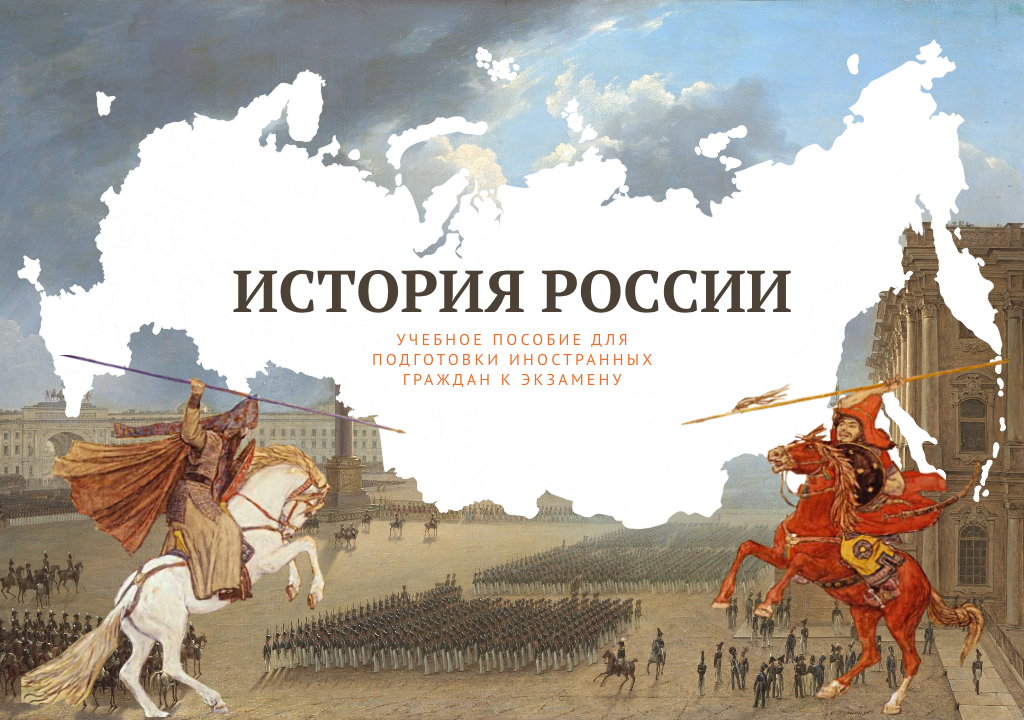
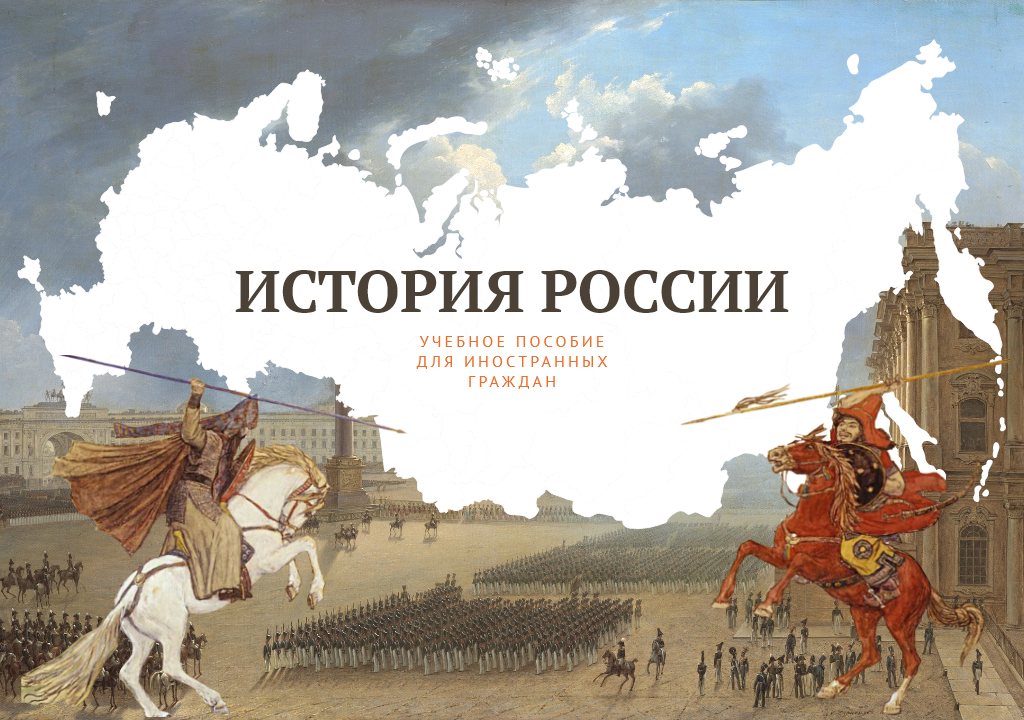
Исправлено название книги, приветствие, введение, сведения

diff --git a/epub/EPUB/xhtml/raw/intro.html b/epub/EPUB/xhtml/raw/intro.html
@@ -7,9 +7,9 @@
     <meta http-equiv="X-UA-Compatible" content="ie=edge">
     <title>Document</title>
 
-    <link rel="stylesheet" type="text/css" href="../../css/base.css" />
-    <link rel="stylesheet" type="text/css" href="../../css/kotobeeInteractive.css" />
-    <link rel="stylesheet" type="text/css" href="../../css/global.css" />
+    <link rel="stylesheet" type="text/css" href="../../css/base.css"/>
+    <link rel="stylesheet" type="text/css" href="../../css/kotobeeInteractive.css"/>
+    <link rel="stylesheet" type="text/css" href="../../css/global.css"/>
 
     <script type="text/javascript" src="../../js/kotobeeInteractive.js"></script>
     <script type="text/javascript" src="../../js/global.js"></script>
@@ -25,58 +25,36 @@
             <div class="col-12 col-offset-0 col-xl-10 offset-xl-1">
                 <div class="ru-card">
                     <div class="text-block">
-                        <p>Пособие по истории России является частью учебно-методического
-                            комплекса, предназначенного для подготовки иностранных граждан к
-                            интеграционному экзамену по русскому языку, истории России и основам
-                            законодательства РФ, который вводится с 1 января 2015 года в
-                            соответствии с Федеральным законом № 74-ФЗ от 20 апреля 2014 г. «О
-                            внесении изменений в Федеральный закон “О правовом положении иностранных
-                            граждан в Российской Федерации”». Теперь при обращении за получением
-                            разрешения на работу либо патент, на временное проживание и вида на
-                            жительство на территории России иностранный гражданин обязан представить
-                            сертификат о владении русским языком, знании истории России и основ
-                            законодательства Российской Федерации.</p>
-                        <p>Пособие ориентировано на то, чтобы люди, приехавшие в Россию из разных
-                            стран и являющиеся носителями различных языков, культур и религий,
-                            смогли получить знания, необходимые для адекватного понимания
-                            окружающей их социокультурной среды, для преодоления этнической
-                            изоляции и равноправного общения как с местными жителями, так и друг с
-                            другом.</p>
-                        <p>В пособии освещены важнейшие вехи истории России с древнейших времен до
-                            наших дней, что способствует формированию у иностранных граждан
-                            целостного представления об основных этапах исторического развития
-                            народов России, особенностях взаимоотношений русского народа с народами,
-                            входившими в состав Российской империи и СССР, а также с народами
-                            современной России.</p>
-                        <p>Представленный в пособии материал знакомит с духовной и материальной
-                            жизнью, традициями и культурой, трудовыми и военными подвигами
-                            народов России, что в итоге призвано сформировать объективное
-                            представление о вкладе России в развитие мировой истории и
-                            культуры.</p>
-                        <p>Изучение курса истории поможет иностранным гражданам лучше
-                            ориентироваться в новых условиях, в том числе в речевых ситуациях,
-                            связанных с официально-деловой, профессиональной, социокультурной и
-                            бытовой сферами общения. Освоение исторического материала позволит
-                            обогатить словарный запас по русскому языку специальными историческими и
-                            культурологическими терминами и понятиями.</p>
-                        <p>Пособие рассчитано как на аудиторную подготовку, так и на
-                            самостоятельную работу.</p>
-                        <p>Пособие построено по хронологическому принципу. Оно состоит из четырех
-                            разделов, включающих основные темы, в которых представлены только самые
-                            важные исторические факты, события и понятия. Их рекомендуется изучить
-                            в процессе ознакомительных занятий либо самостоятельно. Материал
-                            излагается в сжатой форме, доступным языком. Каждую тему предваряет
-                            перечень незнакомых терминов и понятий, которые рекомендуется
-                            предварительно посмотреть в словаре (например, в Толковом словаре С.И.
-                            Ожегова, любом словаре иностранных слов, любого года издания).</p>
-                        <p>Изучение истории России дает возможность иностранным гражданам
-                            ознакомиться с основными событиями прошлого, традициями, культурными и
-                            трудовыми достижениями русского народа. В пособии формирование и
-                            развитие российского социума представлено как сложный исторический
-                            процесс, протекавший на многонациональной и поликонфессиональной основе,
-                            в рамках которого преобладали толерантность и веротерпимость, а также
-                            взаимодействие между народами, в разное время входившими в состав
-                            Российского государства.</p>
+                        <p>Пособие по истории России предназначено для изучения иностранными гражданами истории России и
+                            ориентировано на то, чтобы люди, приехавшие в Российскую Федерацию из разных стран и
+                            являющиеся носителями различных языков, культур и религий, смогли получить знания,
+                            необходимые для адекватного понимания окружающей их социокультурной среды.</p>
+                        <p>В пособии освещены важнейшие вехи истории России с древнейших времен до наших дней, что
+                            способствует формированию у иностранных граждан целостного представления об основных этапах
+                            исторического развития народов России, особенностях взаимоотношений русского народа с
+                            народами, входившими в состав Российской империи и СССР, а также с народами современной
+                            России.</p>
+                        <p>Представленный в пособии материал знакомит с духовной и материальной жизнью, традициями и
+                            культурой, трудовыми и военными подвигами народов России, что в итоге призвано сформировать
+                            объективное представление о вкладе России в развитие мировой истории и культуры.</p>
+                        <p>Освоение исторического материала позволит также иностранному гражданину обогатить словарный
+                            запас по русскому языку специальными историческими и культурологическими терминами и
+                            понятиями.</p>
+                        <p>Пособие рассчитано как на аудиторную подготовку, так и на самостоятельную работу.</p>
+                        <p>Пособие построено по хронологическому принципу. Оно состоит из четырех разделов, включающих
+                            основные темы, в которых представлены только самые важные исторические факты, события и
+                            понятия. Их рекомендуется изучить в процессе ознакомительных занятий либо самостоятельно.
+                            Материал излагается в сжатой форме, доступным языком. Каждую тему предваряет перечень
+                            незнакомых терминов и понятий, которые рекомендуется предварительно посмотреть в словаре
+                            (например, в Толковом словаре С.И. Ожегова, любом словаре иностранных слов, любого года
+                            издания).</p>
+                        <p>Изучение истории России дает возможность иностранным гражданам ознакомиться с основными
+                            событиями прошлого, традициями, культурными и трудовыми достижениями народов, которые
+                            проживают на территории страны. В пособии формирование и развитие российского социума
+                            представлено как сложный исторический процесс, протекавший на многонациональной и
+                            поликонфессиональной основе, в рамках которого преобладали толерантность и веротерпимость, а
+                            также взаимодействие между народами, в разное время входившими в состав Российского
+                            государства.</p>
                     </div>
                 </div>
             </div>

diff --git a/epub/EPUB/xhtml/raw/book-info.html b/epub/EPUB/xhtml/raw/book-info.html
@@ -21,30 +21,17 @@
             <div class="col-12 col-md-10 col-lg-8">
                 <div class="row">
                     <div class="col-12 book-info">
-                        <div class="ru-udc"><span class="emphasis">УДК</span>:
-                            94(47):372.881.161.1:342.4(470)
-                            (07)
-                        </div>
-                        <div class="ru-bbc"><span class="emphasis">ББК</span>:
-                            63.3(2)+81.2Рус-96+67.400
-                        </div>
-                        <div class="ru-approved"><span class="emphasis">Утверждено</span>: <span
-                                class="it">РИС Ученого совета
-                            Российского университета дружбы народов</span>
+                        <div class="ru-output">
+                            <span class="emphasis">История России</span> : учеб. пособие для
+                            иностранных граждан / В.М.&nbsp;Козьменко, А.В.&nbsp;Должикова, Р.А.&nbsp;Арсланов, М.Н.&nbsp;Мосейкина,
+                            Н.М.&nbsp;Румянцева, И.С.&nbsp;Гусева. – Москва : РУДН, 2020.
                         </div>
                         <div class="ru-card ru-reviewers">
                             <div class="text-block">
                                 <h6>Рецензенты</h6>
                                 <p class="ru-reviewer">
                                     <span class="emphasis">В.В. Зверев</span>, доктор исторических
-                                    наук, профессор кафедры истории российской государственности
-                                    Российской академии народного хозяйства и государственной службы
-                                    при Президенте РФ
-                                </p>
-                                <p class="ru-reviewer">
-                                    <span class="emphasis">С.И. Ельникова</span>, кандидат
-                                    педагогических наук, доцент, начальник отдела сопровождения ФЦП
-                                    и образовательных проектов Россотрудничества
+                                    наук, ведущий научный сотрудник Института российской истории РАН
                                 </p>
                                 <p class="ru-reviewer">
                                     <span class="emphasis">З.С. Бочарова</span>, доктор исторических
@@ -58,57 +45,37 @@
                                 </div>
                             </div>
                         </div>
-                        <div class="ru-output">
-                            <span class="emphasis">История России</span> : учеб. пособие для
-                            подготовки
-                            иностранных граждан к экзамену / В.М. Козьменко, А.В. Должикова, Р.А. Арсланов, М.Н. Мосейкина,
-                            Н.М. Румянцева, И.С. Гусева. – Москва : РУДН, 2014. – 172 с. : ил.
-                        </div>
-                        <div class="ru-isbn"><span class="emphasis">ISBN</span>: 978-5-209-05790
-                            -1
-                        </div>
                         <div class="ru-description">
                             <p>
-                            Данное пособие предназначено для иностранных граждан, изучающих историю
-                            России. Пособие разработано коллективом авторов в соответствии с
-                            задачами современной миграционной политики Российской Федерации,
-                            предусматривающей в качестве важного элемента создание условий для
-                            адаптации и интеграции иностранных граждан в новую социокультурную и
-                            языковую среду, формирование у них навыков межкультурного общения.</p>
+                                Данное пособие предназначено для иностранных граждан, изучающих историю России. Пособие
+                                разработано коллективом авторов в соответствии с задачами современной миграционной
+                                политики Российской Федерации, предусматривающей в качестве важного элемента создание
+                                условий для адаптации и интеграции иностранных граждан в новую социокультурную и
+                                языковую среду, формирование у них навыков межкультурного общения.
+                            </p>
                             <p>
-                            Пособие включает обзор тем по истории России, перечень основных
-                            исторических дат, событий, понятий, имен, а также вопросы для
-                            закрепления пройденного материала и образцы тестовых заданий для
-                            самопроверки.
+                                Пособие включает
+                                обзор тем по истории России, перечень основных исторических дат, событий, понятий, имен,
+                                а также вопросы для закрепления пройденного материала и образцы тестовых заданий для
+                                самопроверки.
                             </p>
                         </div>
-                        <div class="ru-copyrights">
-                            <div class="ru-copyright">© Козьменко В.М., Должикова А.В., Арсланов Р.А.,
-                                Мосейкина М.Н., Румянцева Н.М., Гусева И.С., 2014</div>
-                            <div class="ru-copyright">© Российский университет дружбы народов, Издательство, 2014</div>
-                        </div>
-                    </div>
-                    <div class="col-12 book-info">
-                        <h6>Информация об электронном издании</h6>
-                        <div
-                                class="ru-last-updated"><span class="emphasis">Дата
-                            последнего обновления</span>: 09.01.2021</div>
-                        <div class="ru-isbn" style="background-color: yellow;"><span
-                                class="emphasis">ISBN</span>: isbn
-                            цифровой
-                            книги если будет
-                        </div>
-                        <div class="ru-creators">
+                        <div class="ru-creators" style="margin-top: 1.5em;">
+                            <p>
                             Технический редактор: Соловьев К.В.<br/>
                             Компьютерная верстка: Жуков В.В., Нохуров М.<br/>
-                            Дизайн: Манолова О.
+                            Дизайн: Манолова О.А.
+                            </p>
+                        </div>
+                        <div
+                                class="ru-last-updated"><span class="emphasis">Дата
+                            последнего обновления</span>: 09.01.2021
                         </div>
                         <div class="ru-copyrights">
-                            <div class="ru-copyright">© Козьменко В.М., Должикова А.В., Арсланов Р.А.,
-                                Мосейкина М.Н., Румянцева Н.М., Гусева И.С., 2014</div>
-                            <div class="ru-copyright">© Российский университет дружбы народов,
-                                Центр развития цифровых технологий в образовательных процессах,
-                                2020</div>
+                            <div class="ru-copyright">© В.М.&nbsp;Козьменко, А.В.&nbsp;Должикова, Р.А.&nbsp;Арсланов,
+                                М.Н.&nbsp;Мосейкина, Н.М.&nbsp;Румянцева, И.С.&nbsp;Гусева, 2020
+                            </div>
+                            <div class="ru-copyright">© Российский университет дружбы народов, 2020</div>
                         </div>
                     </div>
                 </div>

diff --git a/epub/EPUB/xhtml/raw/greeting.html b/epub/EPUB/xhtml/raw/greeting.html
@@ -27,7 +27,7 @@
                 <div class="ru-card">
                     <div class="text-block">
                         <p>Вы начинаете изучать историю России - страны, в которой вы собираетесь
-                            жить и трудиться. Этот предмет очень важен для вас. Когда живёшь в
+                            жить, учиться или работать. Этот предмет очень важен для вас. Когда живёшь в
                             стране, необходимо знать её историю, культуру и обычаи. В этом случае
                             будет легче общаться с местными гражданами, понимать их интересы и
                             поступки.</p>
